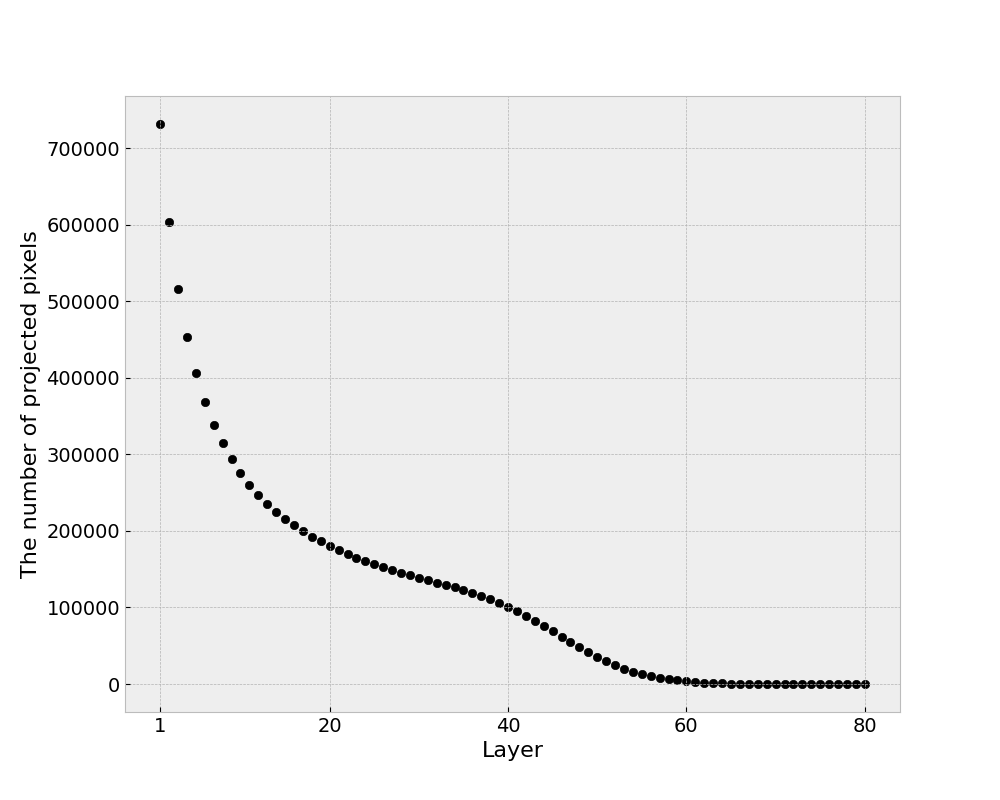
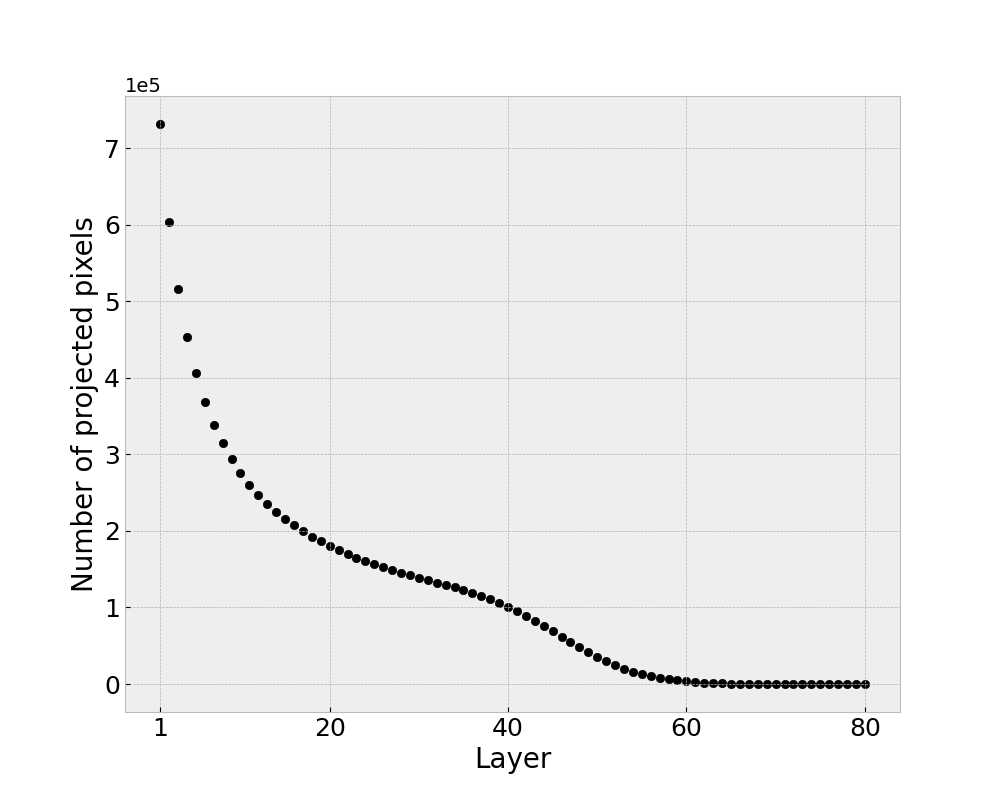
Update

diff --git a/src/py/projected_pixels/create_figure.py b/src/py/projected_pixels/create_figure.py
@@ -38,14 +38,19 @@ print( "The sum of projected pixels: {} (pixels)".format( nPixels_sum ) )
 
 
 # Creat figure
-plt.scatter( Layer, nPixels, color='black', marker="o" )
-plt.ylabel( 'The number of projected pixels', fontsize=16 )
 
-# plt.scatter( Layer, nPixels_cum, color='black', marker="o" )
-# plt.ylabel( 'The cumulative number of projected pixels', fontsize=16 )
+# plt.scatter( Layer, nPixels, color='black', marker="o" )
+# plt.ylabel( 'Number of projected pixels', fontsize=20 )
 
-plt.xlabel( 'Layer', fontsize=16 )
-plt.xticks( [1, 20, 40, 60, 80], fontsize=14 )
+plt.scatter( Layer, nPixels_cum, color='black', marker="o" )
+plt.ylabel( 'The cumulative number of projected pixels', fontsize=20 )
+
+plt.xlabel( 'Layer', fontsize=20 )
+plt.xticks( [1, 20, 40, 60, 80], fontsize=18 )
+plt.yticks( fontsize=18 )
+
+ax = plt.gca()
+ax.ticklabel_format( style="sci",  axis="y",scilimits=(0,0) )
 
 # plt.grid()
 plt.show()
